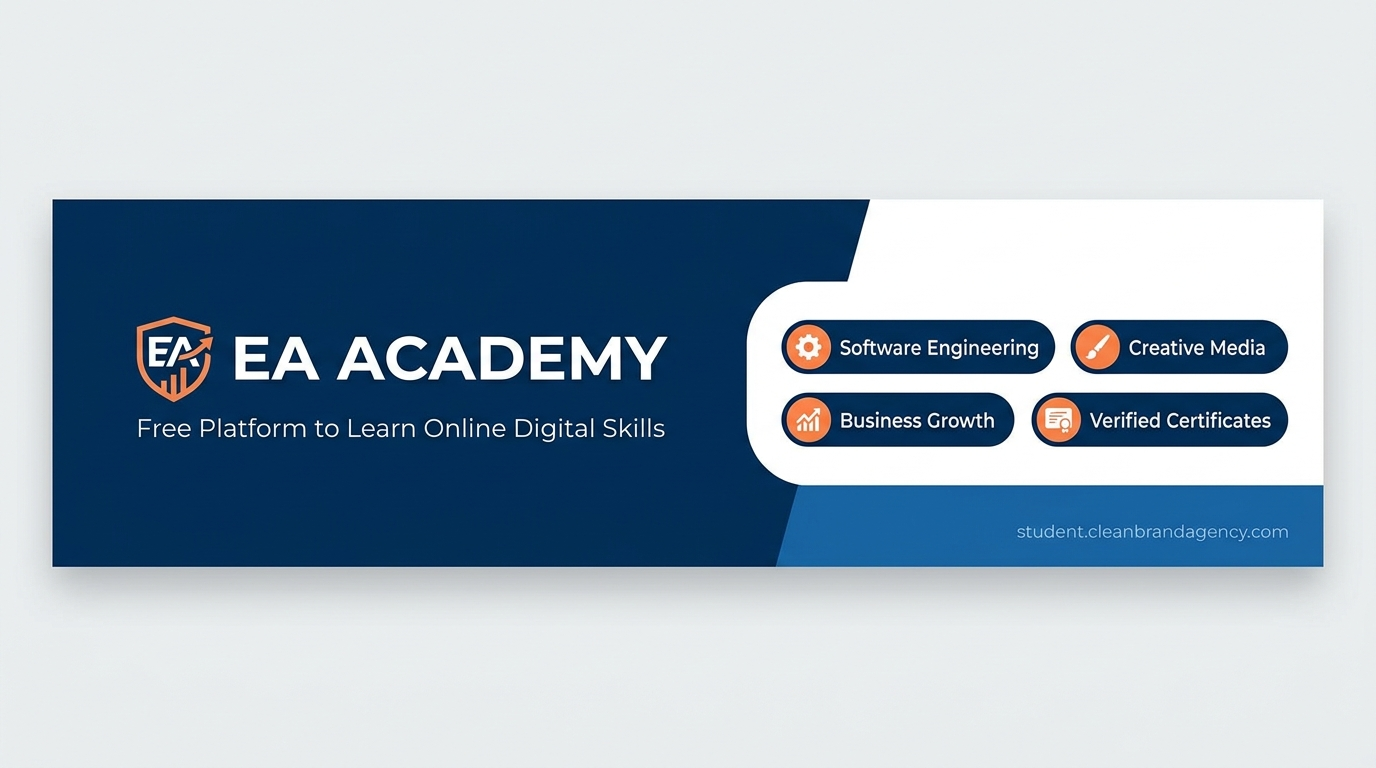
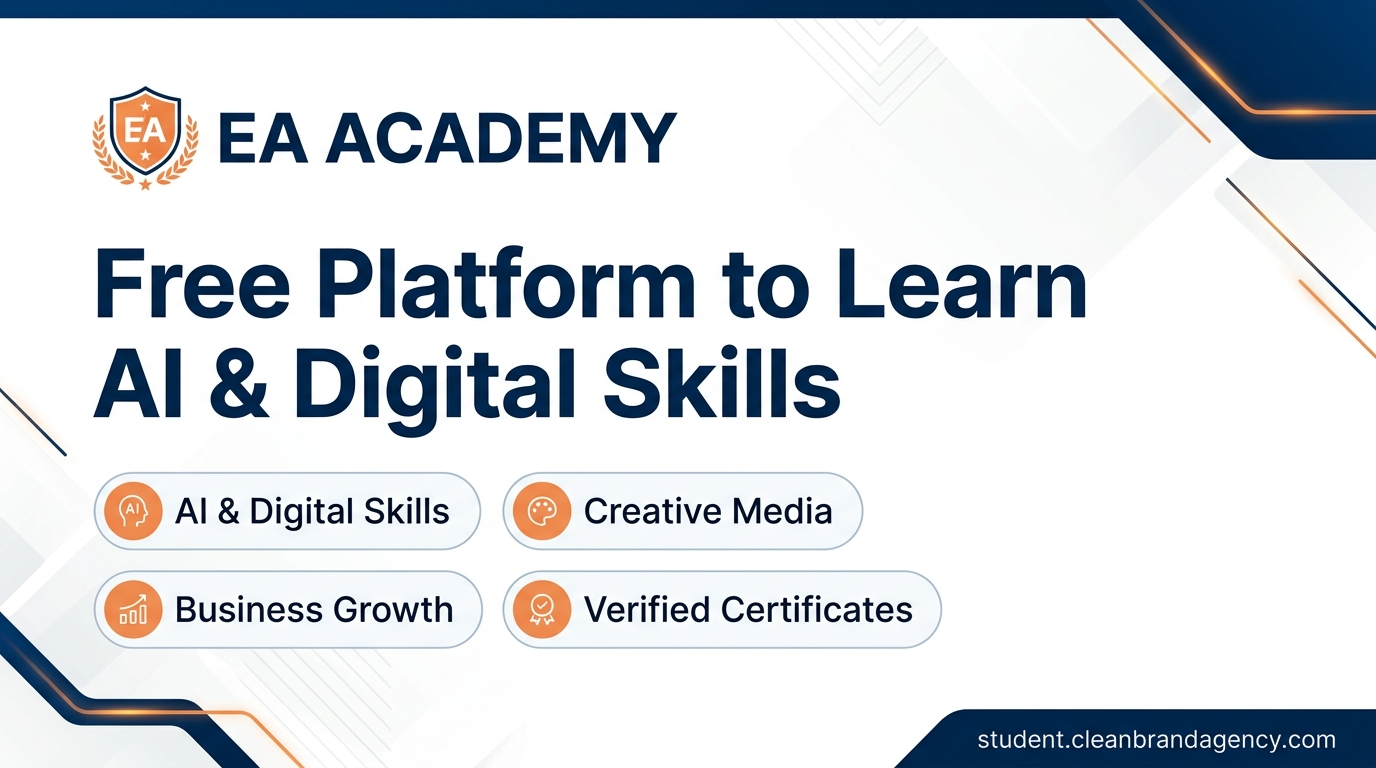
Refocus branding, metadata, and social preview cards exclusively on AI & Digital Skills

diff --git a/src/app/layout.tsx b/src/app/layout.tsx
@@ -21,26 +21,25 @@ const SITE_URL =
 export const metadata: Metadata = {
   metadataBase: new URL(SITE_URL),
   title: {
-    default: "Free Platform to Learn Online Digital Skills | EA Academy",
+    default: "Free Platform to Learn AI & Digital Skills | EA Academy",
     template: "%s | EA Academy",
   },
   description:
-    "Looking for a free platform to learn online digital skills? EA Academy offers practical, project-based career tracks in software engineering, creative media, and business growth. Start learning for free today.",
+    "Looking for a free platform to learn AI and digital skills? EA Academy offers practical, project-based career tracks in artificial intelligence, modern digital workflows, creative media, and business growth. Start learning for free today.",
   keywords: [
-    "free platform to learn online digital skill",
-    "free platform to learn online digital skills",
-    "learn digital skills online free",
+    "free platform to learn AI and digital skills",
+    "learn AI and digital skills online free",
     "free digital skills training with certificate",
-    "free online tech courses with certificate",
-    "free coding platform online",
-    "learn software development free",
-    "free graphic design courses online",
+    "AI tools training free",
+    "practical AI skills academy",
+    "learn artificial intelligence free",
+    "free graphic design and AI video courses",
     "learn digital marketing free",
     "EA Academy",
     "Emmanuel Amadin Academy",
-    "practical online tech academy",
-    "best free platform to learn tech skills",
-    "learn digital skills in Nigeria",
+    "practical online AI academy",
+    "best free platform to learn digital skills",
+    "learn AI and digital skills in Nigeria",
     "free online courses with certificates",
   ],
   authors: [{ name: "Emmanuel Amadin Academy", url: SITE_URL }],
@@ -70,23 +69,23 @@ export const metadata: Metadata = {
     locale: "en_US",
     url: SITE_URL,
     siteName: "EA Academy",
-    title: "Free Platform to Learn Online Digital Skills | EA Academy",
+    title: "Free Platform to Learn AI & Digital Skills | EA Academy",
     description:
-      "Master high-demand digital skills with free career tracks in software engineering, creative design, and digital commerce. Build real projects and earn verified credentials.",
+      "Master high-demand AI tools and digital skills with free career tracks in artificial intelligence, creative media, and business growth. Build real projects and earn verified credentials.",
     images: [
       {
         url: `${SITE_URL}/og-image.jpg`,
         width: 1200,
         height: 630,
-        alt: "EA Academy — Free Online Digital Skills Learning Platform",
+        alt: "EA Academy — Free Platform to Learn AI & Digital Skills",
       },
     ],
   },
   twitter: {
     card: "summary_large_image",
-    title: "Free Platform to Learn Online Digital Skills | EA Academy",
+    title: "Free Platform to Learn AI & Digital Skills | EA Academy",
     description:
-      "Join free career tracks in software engineering, creative design, and digital business. Learn practical skills and submit assignments.",
+      "Join free career tracks in artificial intelligence, in-demand digital skills, creative media, and business growth. Learn practical skills and build real projects.",
     creator: "@eaacademy",
     images: [`${SITE_URL}/og-image.jpg`],
   },

diff --git a/src/components/public-site.tsx b/src/components/public-site.tsx
@@ -410,7 +410,7 @@ export function Landing() {
                   <span className="classroom-accent">online digital skills.</span>
                 </motion.h1>
                 <motion.p variants={heroItem}>
-                  Join structured career tracks in software engineering, creative design,
+                  Join structured career tracks in AI &amp; modern digital skills, creative media,
                   and business growth. Attend interactive classes, submit practical assignments,
                   and prove what you can do at zero cost.
                 </motion.p>
@@ -888,7 +888,7 @@ const FAQS = [
   {
     question: "What online digital skills can I learn for free?",
     answer:
-      "You can master three high-income digital disciplines: Systems & Development (full-stack web development, software engineering, databases, and APIs), Creative Media Studio (visual storytelling, graphic design, and UI/UX), and Business Growth & Wealth (digital marketing, product strategy, and modern commerce).",
+      "You can master three high-income digital disciplines: Systems & Automation (practical AI tools, automated workflows, modern websites, and database foundations), Creative Media Studio (visual storytelling, AI video production, and digital design), and Business Growth & Wealth (digital marketing, business management, and modern commerce).",
   },
   {
     question: "Do I get a certificate or verifiable proof of learning?",

diff --git a/src/app/page.tsx b/src/app/page.tsx
@@ -2,9 +2,9 @@ import type { Metadata } from "next";
 import { Landing } from "@/components/public-site";
 
 export const metadata: Metadata = {
-  title: "Free Platform to Learn Online Digital Skills — Code, Media & Business",
+  title: "Free Platform to Learn AI & Digital Skills — AI, Media & Business",
   description:
-    "Looking for a free platform to learn online digital skills? EA Academy offers practical, project-based career tracks in software engineering, creative media, and business growth. Start learning for free today.",
+    "Looking for a free platform to learn AI and digital skills? EA Academy offers practical, project-based career tracks in artificial intelligence, modern digital workflows, creative media, and business growth. Start learning for free today.",
   alternates: {
     canonical: "/",
   },

diff --git a/src/components/seo-structured-data.tsx b/src/components/seo-structured-data.tsx
@@ -12,7 +12,7 @@ export function OrganizationSchema() {
     url: SITE_URL,
     logo: `${SITE_URL}/icon.svg`,
     description:
-      "A free platform to learn practical online digital skills in software development, creative media, and business growth.",
+      "A free platform to learn practical online AI and digital skills, creative media, and business growth.",
     sameAs: [
       "https://twitter.com/eaacademy",
       "https://linkedin.com/company/eaacademy",
@@ -20,7 +20,7 @@ export function OrganizationSchema() {
     ],
     offers: {
       "@type": "Offer",
-      category: "Free Online Digital Skills Education",
+      category: "Free Online AI & Digital Skills Education",
       price: "0",
       priceCurrency: "NGN",
       availability: "https://schema.org/InStock",

diff --git a/src/app/donate/page.tsx b/src/app/donate/page.tsx
@@ -4,7 +4,7 @@ import { Donations } from "@/features/billing";
 export const metadata: Metadata = {
   title: "Support a Student — Digital Skills Scholarship Fund",
   description:
-    "Help expand access to digital education. Sponsor scholarships for ambitious learners to master software development, design, and business skills.",
+    "Help expand access to digital education. Sponsor scholarships for ambitious learners to master AI tools, modern digital skills, and business growth.",
   alternates: {
     canonical: "/donate",
   },
